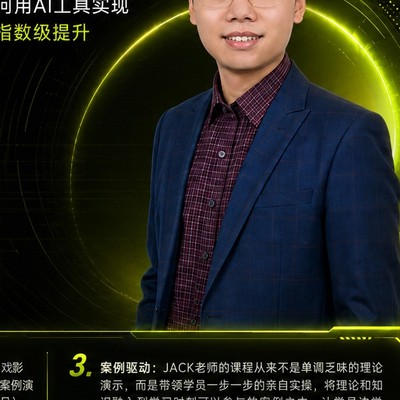
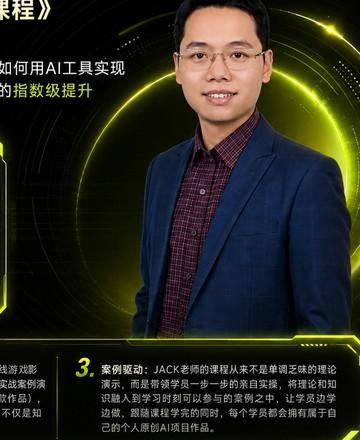
refactor(teacher): 换上半身头像，精简冗余文字，降低 AI 感

diff --git a/7月工作/AI漫剧金牌课/teacher.html b/7月工作/AI漫剧金牌课/teacher.html
@@ -12,18 +12,17 @@
 
 /* Hero */
 .hero-card{background:rgba(255,255,255,0.62);backdrop-filter:blur(8px);-webkit-backdrop-filter:blur(8px);border-radius:22px;border:1px solid rgba(59,130,246,0.12);overflow:hidden;box-shadow:0 12px 36px rgba(59,130,246,0.08)}
-.hero-top{display:flex;gap:28px;align-items:center;padding:38px 38px 30px;background:linear-gradient(135deg,#1e3a5f 0%,#0f2744 100%)}
-.hero-avatar{width:108px;height:108px;border-radius:50%;flex-shrink:0;background:linear-gradient(135deg,#3b82f6,#06b6d4);display:flex;align-items:center;justify-content:center;font-size:44px;font-weight:800;color:#fff;border:3px solid rgba(255,255,255,0.3);object-fit:cover}
+.hero-top{display:flex;gap:28px;align-items:flex-start;padding:38px 38px 30px;background:linear-gradient(135deg,#1e3a5f 0%,#0f2744 100%)}
+.hero-avatar{width:180px;height:220px;border-radius:18px;flex-shrink:0;background:linear-gradient(135deg,#3b82f6,#06b6d4);object-fit:cover;border:2px solid rgba(255,255,255,0.2);box-shadow:0 8px 24px rgba(0,0,0,0.25)}
 .hero-meta{flex:1;min-width:0}
-.hero-meta h1{font-size:clamp(22px,4vw,28px);font-weight:800;color:#fff;margin-bottom:6px;letter-spacing:0.5px}
-.hero-role{font-size:14px;color:#93c5fd;margin-bottom:14px;font-weight:600}
+.hero-meta h1{font-size:clamp(26px,4.5vw,34px);font-weight:800;color:#fff;margin-bottom:8px;letter-spacing:0.5px}
+.hero-role{font-size:15px;color:#bfdbfe;margin-bottom:16px;font-weight:600}
 .hero-tags{display:flex;flex-wrap:wrap;gap:8px}
 .hero-tags span{display:inline-block;padding:5px 13px;border-radius:20px;font-size:12px;font-weight:600}
 .tag-blue{background:rgba(59,130,246,0.18);color:#93c5fd}
 .tag-purple{background:rgba(139,92,246,0.18);color:#c4b5fd}
 .tag-cyan{background:rgba(6,182,212,0.18);color:#67e8f9}
-.hero-summary{padding:20px 38px 26px;background:rgba(30,58,95,0.04);font-size:14px;color:#475569;line-height:1.85}
-.hero-summary strong{color:#1e293b}
+.hero-summary{padding:18px 38px 26px;background:rgba(30,58,95,0.04);font-size:14px;color:#475569;line-height:1.8}
 
 /* 数据成就 */
 .stats-grid{display:grid;grid-template-columns:repeat(4,1fr);gap:14px;margin-top:8px}
@@ -74,6 +73,7 @@
 @media(max-width:768px){
   .nav-links{display:none}.nav-links.open{display:flex;flex-direction:column;position:absolute;top:88px;left:20px;right:20px;background:rgba(255,255,255,0.95);backdrop-filter:blur(24px);padding:20px 24px;gap:4px;border-radius:20px;border:1px solid rgba(255,255,255,0.5);box-shadow:0 8px 40px rgba(0,0,0,0.08)}.nav-links.open a{padding:14px 18px;font-size:15px}.nav-toggle{display:flex}
   .hero-top{flex-direction:column;text-align:center;padding:32px 22px 26px}
+  .hero-avatar{width:140px;height:175px;margin:0 auto}
   .hero-tags{justify-content:center}
   .hero-summary{padding:18px 22px 22px}
   .stats-grid{grid-template-columns:repeat(2,1fr)}
@@ -92,94 +92,90 @@
     <div class="hero-top">
       <img class="hero-avatar" src="teacher-jack.jpg" alt="JACK老师">
       <div class="hero-meta">
-        <h1>Teacher JACK 老师</h1>
-        <p class="hero-role">树帆教育 AI 项目战略专家</p>
+        <h1>JACK 老师</h1>
+        <p class="hero-role">AI 漫剧金牌讲师</p>
         <div class="hero-tags">
-          <span class="tag-blue">动漫及影视设计制作资深专家</span>
-          <span class="tag-purple">AI漫剧系列金牌讲师</span>
-          <span class="tag-cyan">爆款AI影视剧导演</span>
+          <span class="tag-blue">10 年一线游戏 / 影视制作经验</span>
+          <span class="tag-cyan">多部爆款 AI 漫剧导演</span>
         </div>
       </div>
     </div>
-    <p class="hero-summary"><strong>一句话定位：</strong>10 年一线游戏及影视设计制作经验 + 5 年一线动漫影视讲师经验 + 3 年 AI 应用讲师经验，多部爆款 AI 漫剧导演，已带数千名学员从零入门 AI 创作。</p>
+    <p class="hero-summary">10 年一线游戏及影视设计制作经验，曾任上海游族网络资深画师、泛次元 ACG 原画/UI 设计师；现任树帆 AI 漫剧金牌讲师，已带领数千名学员从零入门 AI 创作。</p>
   </div>
 </section>
 
 <!-- ② 数据成就 -->
 <section class="page-section" style="padding-top:8px">
   <div class="stats-grid">
-    <div class="stat-card"><div class="stat-num" style="color:#2563eb">10<span>年</span></div><div class="stat-label">一线游戏 / 影视<br>设计制作经验</div></div>
-    <div class="stat-card"><div class="stat-num" style="color:#8b5cf6">5+3<span>年</span></div><div class="stat-label">动漫影视讲师<br>+ AI 应用教学</div></div>
-    <div class="stat-card"><div class="stat-num" style="color:#06b6d4">数千<span>名</span></div><div class="stat-label">学员已进入<br>动漫游戏行业</div></div>
-    <div class="stat-card"><div class="stat-num" style="color:#d97706">多部<span>爆款</span></div><div class="stat-label">AI 漫剧作品<br>执导 / 导演</div></div>
+    <div class="stat-card"><div class="stat-num" style="color:#2563eb">10<span>+</span></div><div class="stat-label">年游戏 / 影视<br>一线制作经验</div></div>
+    <div class="stat-card"><div class="stat-num" style="color:#8b5cf6">8<span>+</span></div><div class="stat-label">年讲师经验<br>动漫 / AI 教学</div></div>
+    <div class="stat-card"><div class="stat-num" style="color:#06b6d4">数千</div><div class="stat-label">学员已入门<br>AI 创作</div></div>
+    <div class="stat-card"><div class="stat-num" style="color:#d97706">多部</div><div class="stat-label">爆款 AI 漫剧<br>执导经验</div></div>
   </div>
 </section>
 
-<!-- ③ 专业履历与资历 -->
+<!-- ③ 职业经历 -->
 <section class="page-section" style="padding-top:8px">
-  <h2 class="section-title">专业履历与资历</h2>
+  <h2 class="section-title">职业经历</h2>
   <div class="resume-cards">
     <div class="rcard rcard-blue">
       <div class="rcard-label" style="color:#2563eb">教育背景</div>
-      <div class="rcard-title">东华理工大学 · 动漫设计专业</div>
-      <div class="rcard-desc">扎实的科班美术理论基础</div>
+      <div class="rcard-title">东华理工大学 · 动漫设计</div>
     </div>
     <div class="rcard rcard-purple">
       <div class="rcard-label" style="color:#a855f7">核心能力</div>
-      <div class="rcard-title">深厚美术功底 + 精湛手绘能力</div>
-      <div class="rcard-desc">十年游戏美术 + 一线工作经验</div>
+      <div class="rcard-title">十年游戏美术 / 手绘设计</div>
     </div>
   </div>
   <div class="timeline">
-    <div class="tl-item"><div class="tl-dot" style="background:#22c55e"></div><div class="tl-text"><span class="tl-strong">现任 · 树帆机构</span><br>AI 漫剧系列金牌讲师 / AI 项目资深讲师 / 原画讲师</div></div>
-    <div class="tl-item"><div class="tl-dot" style="background:#3b82f6"></div><div class="tl-text"><span class="tl-strong">曾任 · 上海游族网络</span><br>资深游戏画师（大型网游项目）</div></div>
-    <div class="tl-item"><div class="tl-dot" style="background:#a855f7"></div><div class="tl-text"><span class="tl-strong">曾任 · 泛次元 ACG 有限公司</span><br>原画 / UI 设计师</div></div>
-    <div class="tl-item"><div class="tl-dot" style="background:#06b6d4"></div><div class="tl-text"><span class="tl-strong">重点项目经历</span><br>《木叶传说》场景原画、《卧龙吟》美术开发</div></div>
+    <div class="tl-item"><div class="tl-dot" style="background:#22c55e"></div><div class="tl-text"><span class="tl-strong">现任 · 树帆机构</span><br>AI 漫剧金牌讲师 / 原画讲师</div></div>
+    <div class="tl-item"><div class="tl-dot" style="background:#3b82f6"></div><div class="tl-text"><span class="tl-strong">曾任 · 上海游族网络</span><br>资深游戏画师，参与大型网游项目</div></div>
+    <div class="tl-item"><div class="tl-dot" style="background:#a855f7"></div><div class="tl-text"><span class="tl-strong">曾任 · 泛次元 ACG</span><br>原画 / UI 设计师</div></div>
+    <div class="tl-item"><div class="tl-dot" style="background:#06b6d4"></div><div class="tl-text"><span class="tl-strong">项目经历</span><br>《木叶传说》《卧龙吟》美术开发</div></div>
   </div>
 </section>
 
-<!-- ④ 教学三大特色 -->
+<!-- ④ 教学特色 -->
 <section class="page-section" style="padding-top:8px">
-  <h2 class="section-title">教学三大特色</h2>
+  <h2 class="section-title">教学特色</h2>
   <div class="feature-grid">
     <div class="fcard">
       <div class="fcard-icon" style="background:rgba(59,130,246,0.1)"><img src="一些icon/大脑.svg" alt=""></div>
       <div class="fcard-title">深入浅出</div>
-      <div class="fcard-desc">擅长把复杂的知识和概念用简单、易懂、生动、有趣的方式讲出来。适合各种职业、各种学历、各种年龄段的学生。</div>
+      <div class="fcard-desc">复杂知识用简单生动的方式讲透，零基础也能跟上。</div>
     </div>
     <div class="fcard">
       <div class="fcard-icon" style="background:rgba(217,119,6,0.1)"><img src="一些icon/公文包.svg" alt=""></div>
       <div class="fcard-title">实战导师</div>
-      <div class="fcard-desc">JACK 老师本身具有多年一线游戏影视设计和制作经验，所有课程内容均配备实战案例演示讲解（其中不乏参与的爆款作品），跟随行业一线大佬近距离学习，学到的不仅是知识技能，还有行业思维和经验。</div>
+      <div class="fcard-desc">多年一线游戏影视制作经验，案例来自真实项目。</div>
     </div>
     <div class="fcard">
       <div class="fcard-icon" style="background:rgba(22,163,74,0.1)"><img src="一些icon/靶子.svg" alt=""></div>
       <div class="fcard-title">案例驱动</div>
-      <div class="fcard-desc">课程从来不是单纯乏味的理论演示，而是带领学员一步一步亲自实操，将理论和知识融入到可参与的实践中，让学员边学边做，学完即拥有属于自己的个人原创 AI 项目作品。</div>
+      <div class="fcard-desc">边讲边做，学完即能产出自己的原创 AI 项目作品。</div>
     </div>
   </div>
 </section>
 
-<!-- ⑤ 讲师作品 -->
+<!-- ⑤ 代表作品 -->
 <section class="page-section" style="padding-top:8px">
-  <h2 class="section-title">讲师作品</h2>
+  <h2 class="section-title">代表作品</h2>
   <div class="works-grid">
-    <!-- 替换提示：把 6 张作品图放到本目录（如 work-1.jpg ~ work-6.jpg），把下面占位 div 改成 <img src="work-1.jpg" alt="作品"> -->
-    <div class="work-item" style="background:linear-gradient(135deg,#1e3a5f,#2d4a6f)"><span class="work-ph">角色作品 1</span></div>
-    <div class="work-item" style="background:linear-gradient(135deg,#4a1942,#6b2157)"><span class="work-ph">角色作品 2</span></div>
-    <div class="work-item" style="background:linear-gradient(135deg,#1a365d,#2c5282)"><span class="work-ph">角色作品 3</span></div>
-    <div class="work-item" style="background:linear-gradient(135deg,#234e52,#285e61)"><span class="work-ph">角色作品 4</span></div>
-    <div class="work-item" style="background:linear-gradient(135deg,#44337a,#553c9a)"><span class="work-ph">角色作品 5</span></div>
-    <div class="work-item" style="background:linear-gradient(135deg,#744210,#975a16)"><span class="work-ph">场景作品 6</span></div>
+    <div class="work-item" style="background:linear-gradient(135deg,#1e3a5f,#2d4a6f)"><span class="work-ph">作品 1</span></div>
+    <div class="work-item" style="background:linear-gradient(135deg,#4a1942,#6b2157)"><span class="work-ph">作品 2</span></div>
+    <div class="work-item" style="background:linear-gradient(135deg,#1a365d,#2c5282)"><span class="work-ph">作品 3</span></div>
+    <div class="work-item" style="background:linear-gradient(135deg,#234e52,#285e61)"><span class="work-ph">作品 4</span></div>
+    <div class="work-item" style="background:linear-gradient(135deg,#44337a,#553c9a)"><span class="work-ph">作品 5</span></div>
+    <div class="work-item" style="background:linear-gradient(135deg,#744210,#975a16)"><span class="work-ph">作品 6</span></div>
   </div>
 </section>
 
 <!-- ⑥ 底部 CTA -->
 <section class="page-section" style="padding-top:8px">
   <div class="cta-card">
-    <div class="cta-title">跟随 JACK 老师，从零基础到独立创作你的个人 AI 漫剧</div>
-    <div class="cta-sub">把复杂的 AI 创作，变成你能上手的每一步</div>
-    <a href="course.html" class="cta-btn">查看完整课程 →</a>
+    <div class="cta-title">跟随 JACK 老师，从零创作你的 AI 漫剧</div>
+    <div class="cta-sub">把 AI 创作拆成你能一步步落地的流程</div>
+    <a href="course.html" class="cta-btn">查看课程 →</a>
   </div>
 </section>
 